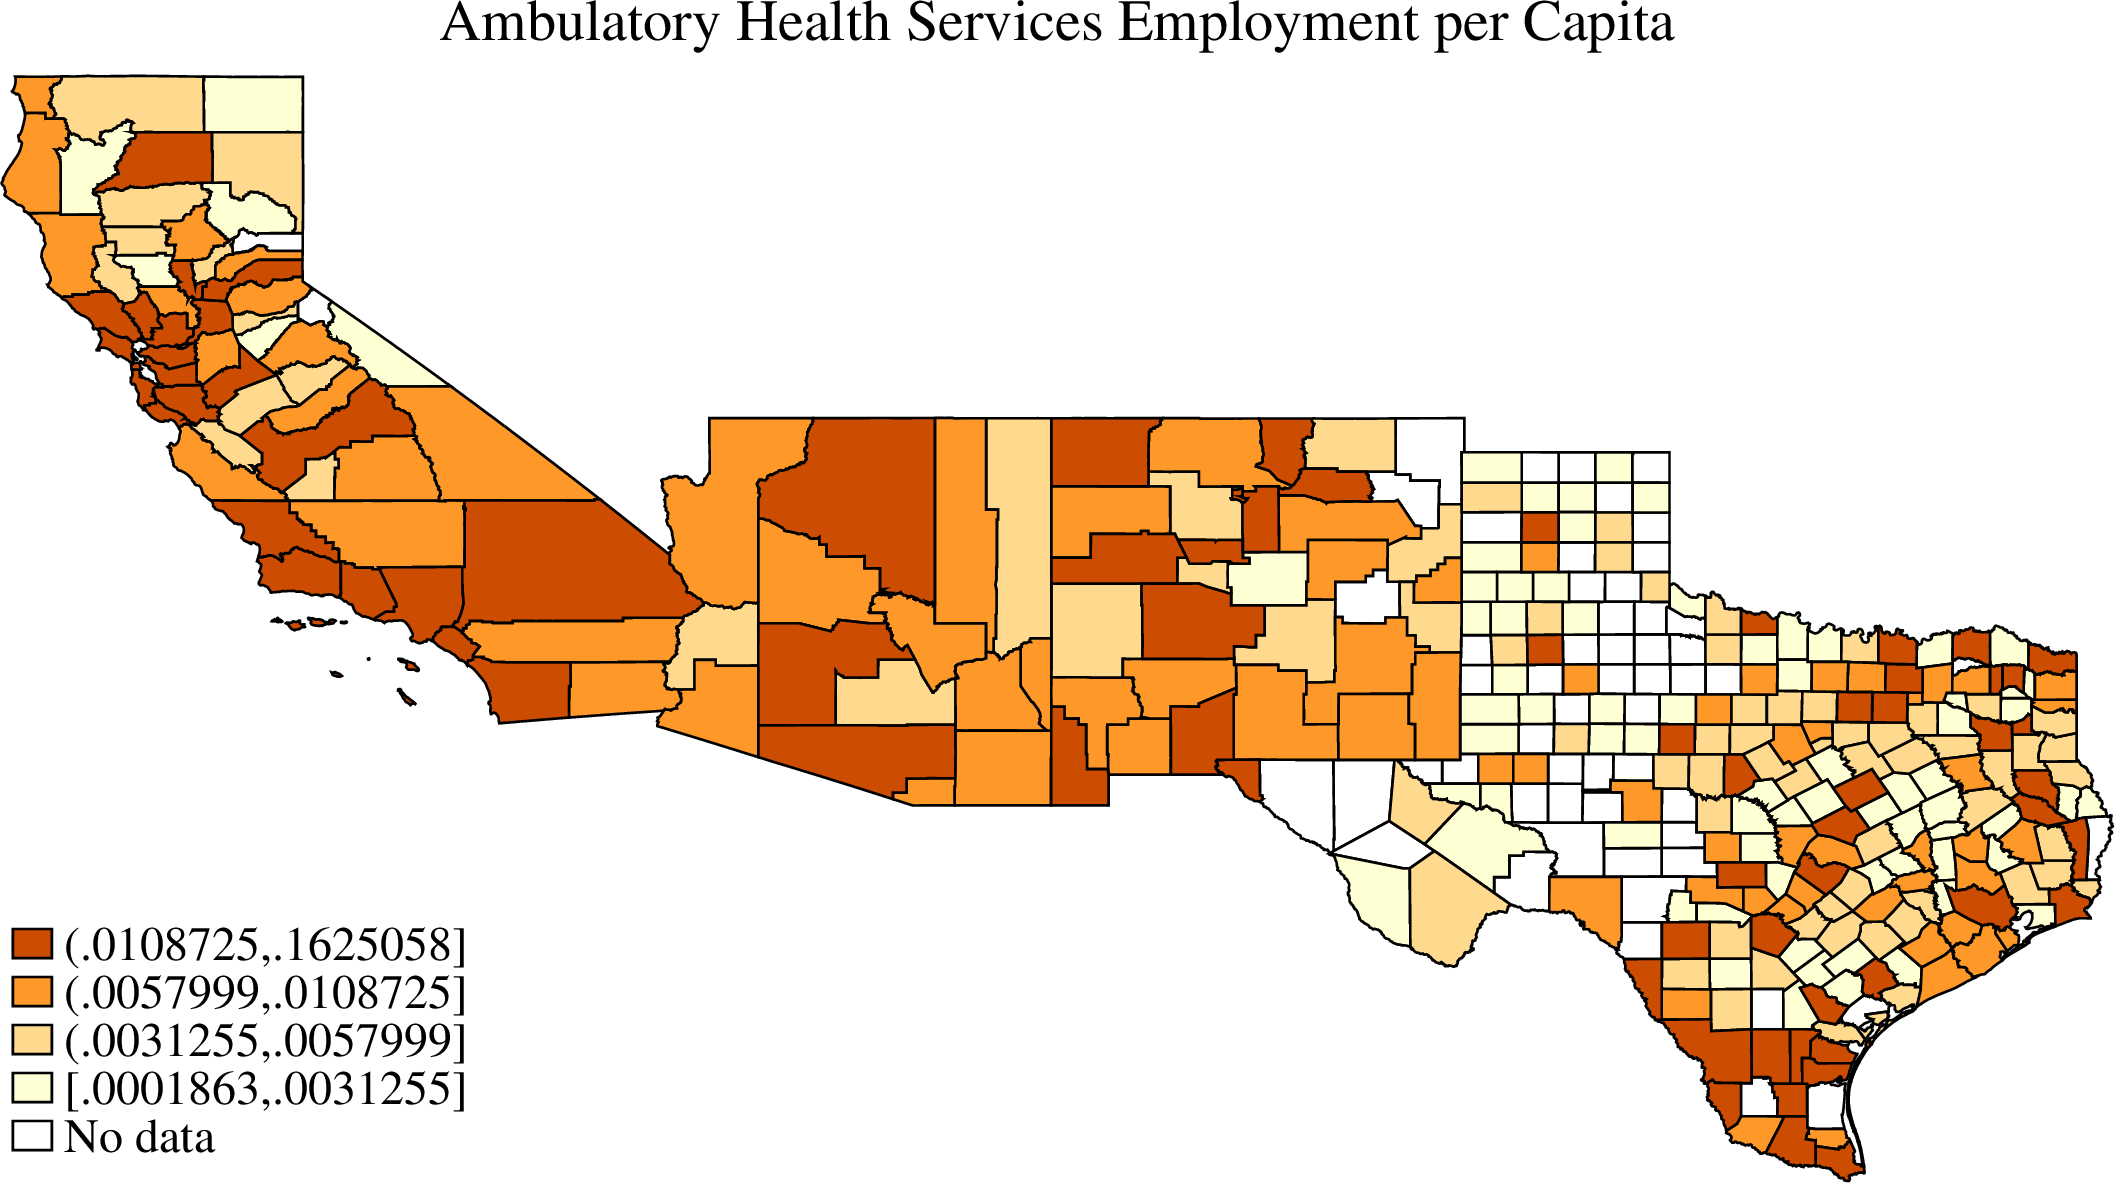
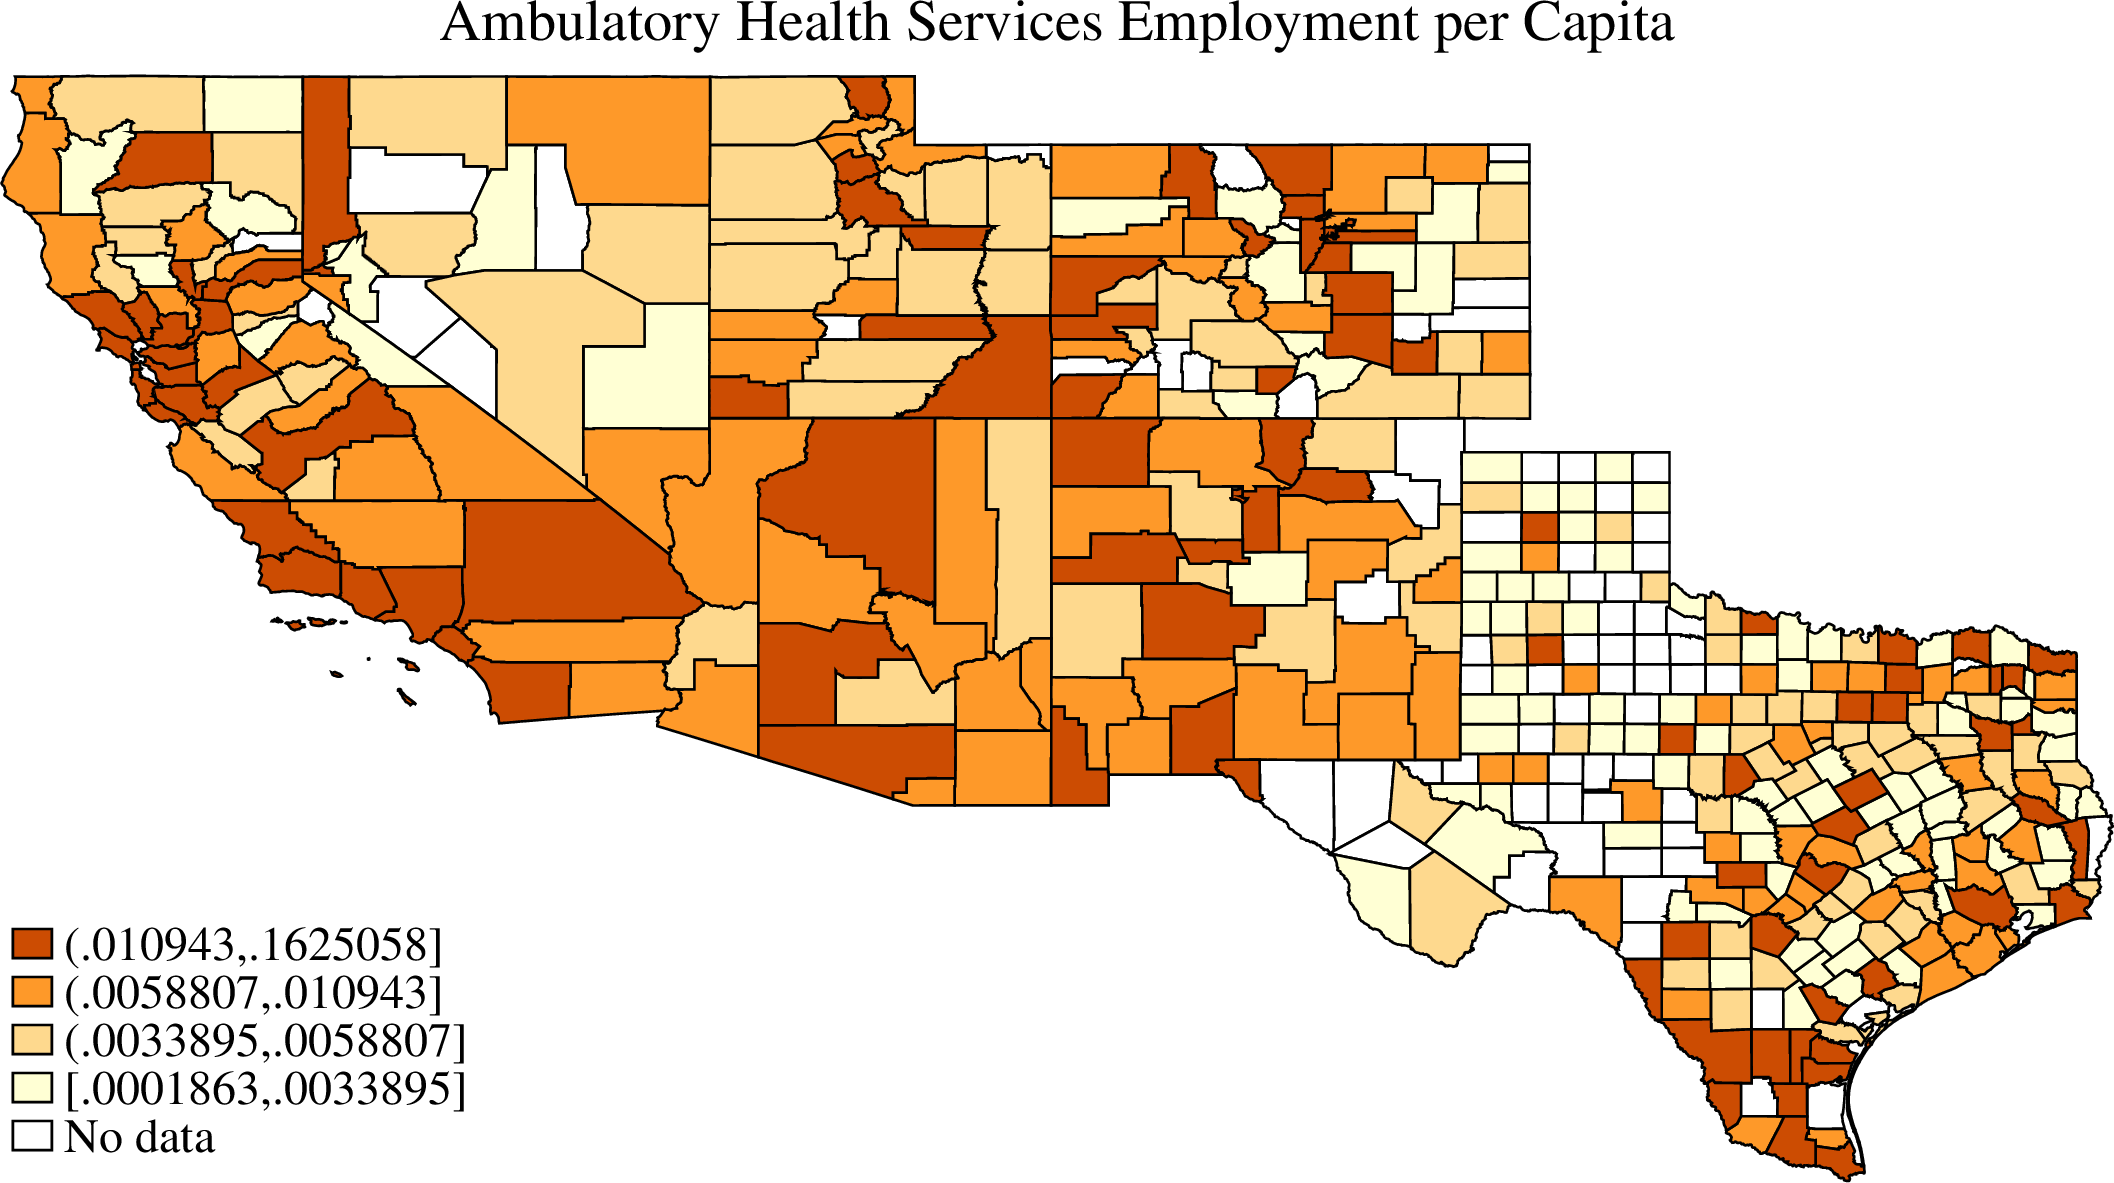
Added counties from border map script

diff --git a/logbook/entries/20250814Garcia.tex b/logbook/entries/20250814Garcia.tex
@@ -1,4 +1,10 @@
 \subsection{U.S. CBP Regressions}
+As a reference for the following regressions, below is a map of U.S. counties characterized by the number of counties they are away from the U.S.-Mexico border.
+\begin{figure}[H]
+	\centering
+	\includegraphics[width=.8\textwidth]{input/counties_from_border.png}
+\end{figure}
+
 The following are regressions of log dentist office (NAICS 6211--) employment per capita in U.S. border counties against different control groups.
 Demographic variables are included as controls.
 
@@ -26,8 +32,9 @@ Demographic variables are included as controls.
 \input{input/cbp_dentist_regs_dummies_adj5_counties.tex}
 \end{table}
 
+\clearpage
 \subsection{U.S. CBP Maps}
-The following are county-level maps for counties in states along the Mexican border for dentist office employment per capita and ambulatory health services (NAICS 621---) employment per capita.
+The following are county-level maps for counties in states along the Mexican border for dentist office (NAICS 6212--) and ambulatory health services (NAICS 621---) employment and establishments per capita.
 Note the censoring of sparsely-populated counties, especially in Texas.
 
 \begin{figure}[H]
